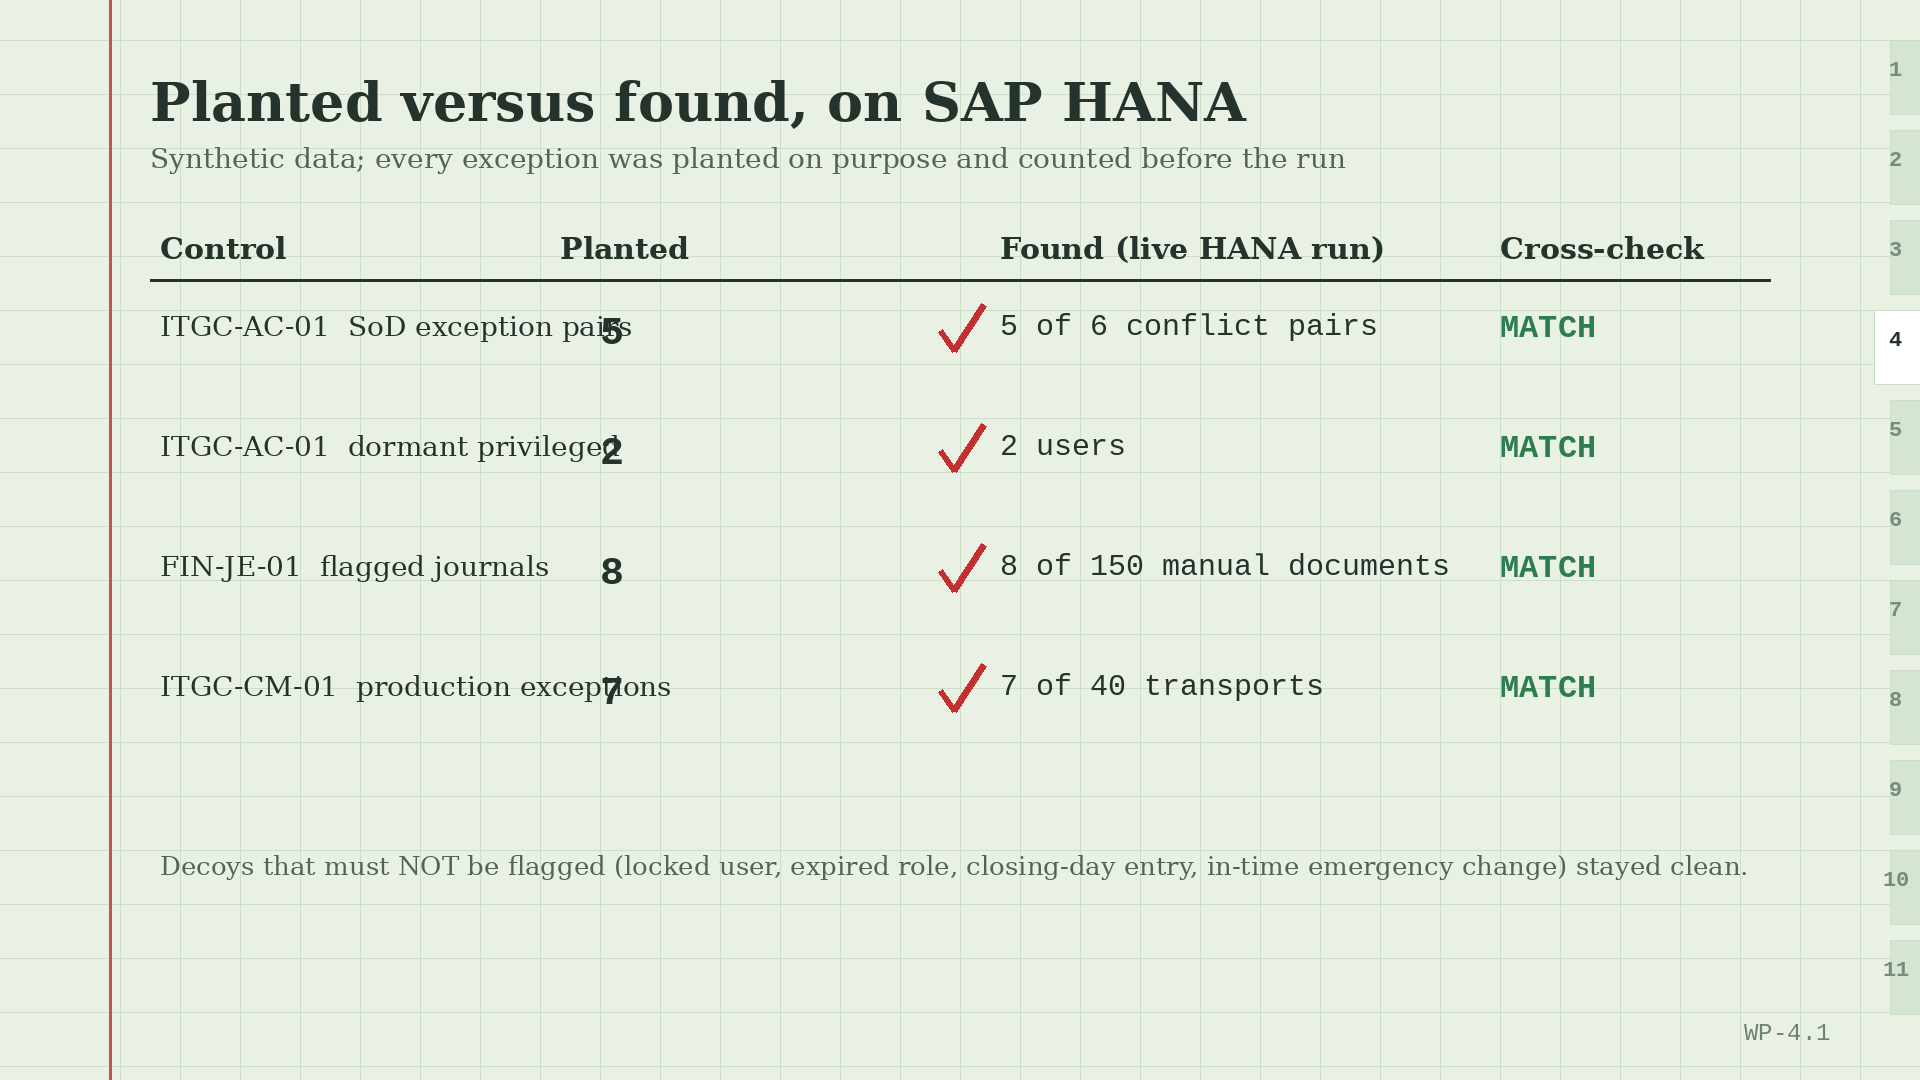
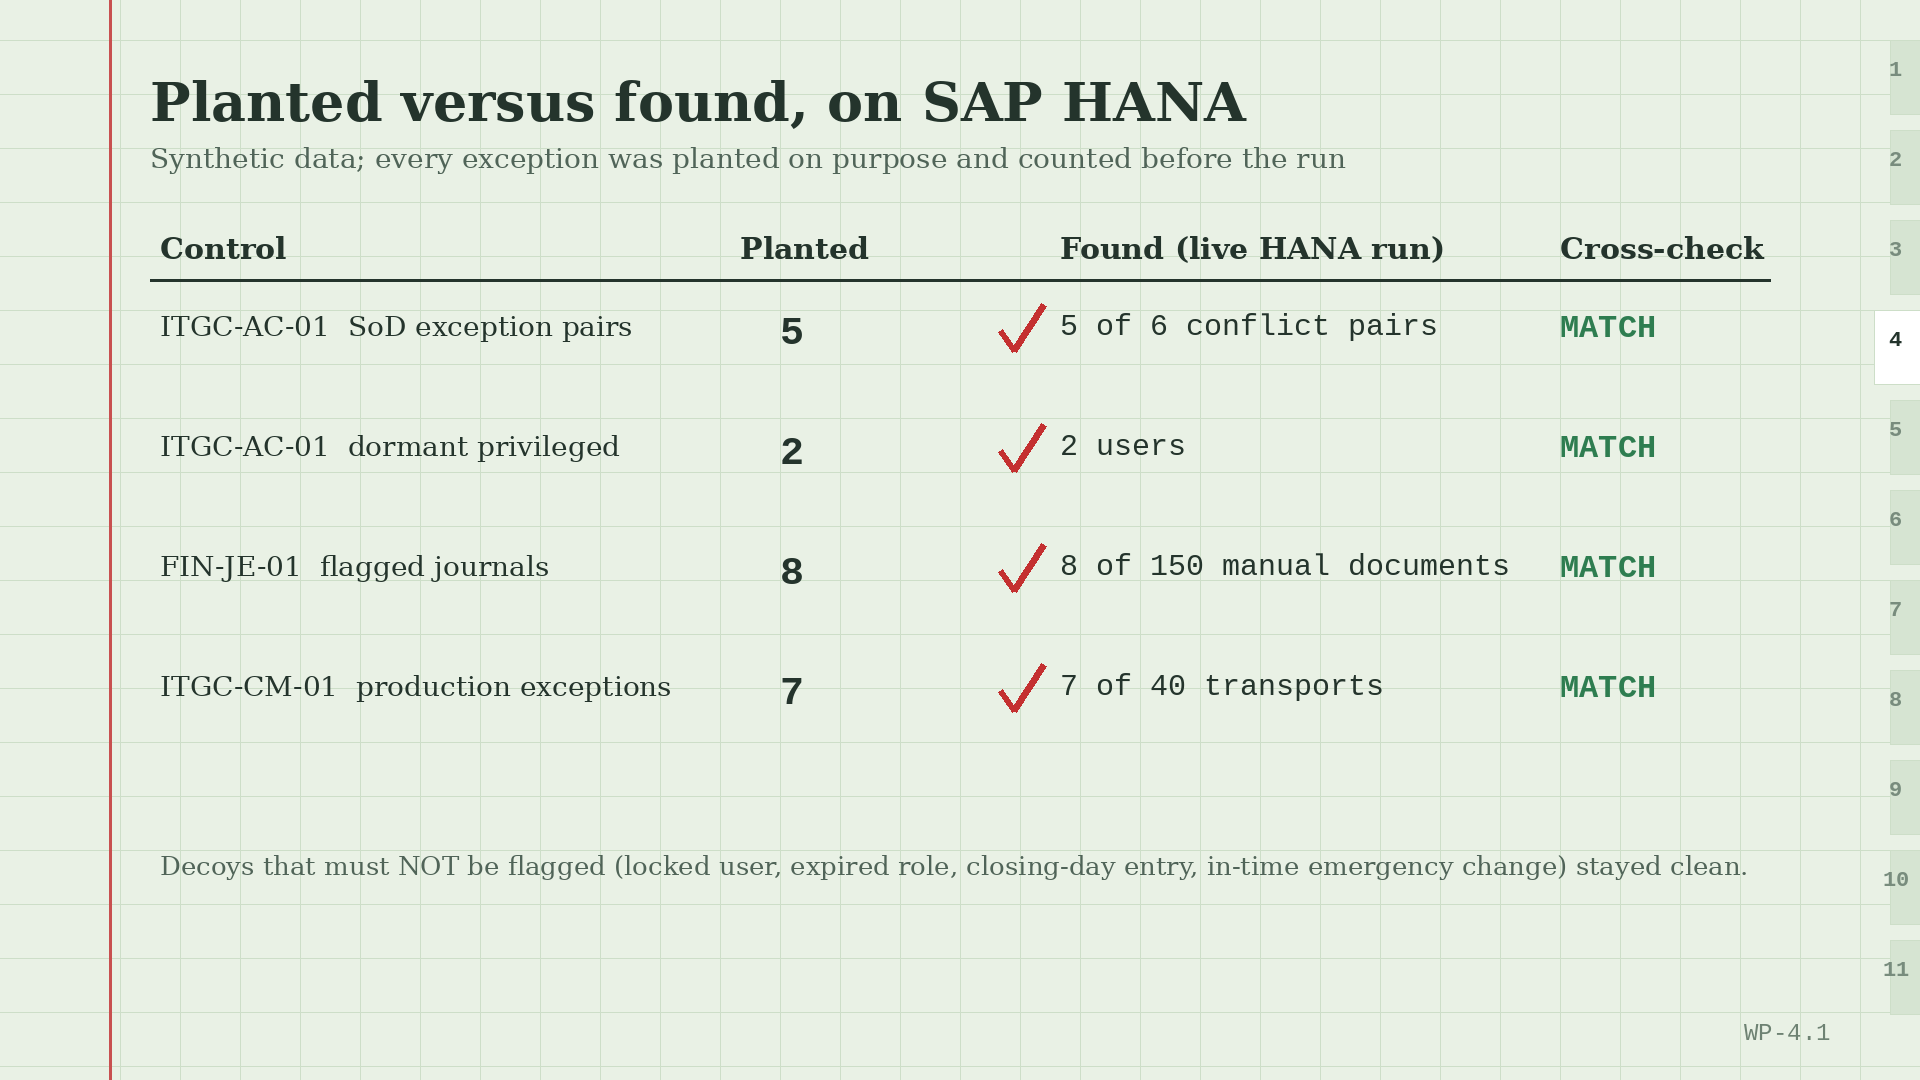
Add demo video renderer, fix planted-vs-found column overlap, polish LinkedIn post
Claude-Session: https://claude.ai/code/session_01YEmykuhzaUhmFByyCdGGtt

diff --git a/demo/render_video.py b/demo/render_video.py
@@ -1,0 +1,188 @@
+#!/usr/bin/env python3
+"""Renders sox-demo.mp4 (1920x1080, H.264 + AAC) in the audit-workpaper-tickmark-binder look from demo/ only:
+storyboard content.py, images in screens/, narration in audio/*.wav (+ durations.json).
+Usage: python3 demo/render_video.py [outdir]     (needs ffmpeg, Pillow, numpy)
+Caption timing inside a scene is estimated from character counts (no forced alignment); scene lengths come from the real audio."""
+import importlib.util, json, os, subprocess, sys, wave
+from multiprocessing import Pool
+import numpy as np
+from PIL import Image, ImageDraw, ImageFont
+
+HERE = os.path.dirname(os.path.abspath(__file__))
+SCREENS, AUDIO = os.path.join(HERE, 'screens'), os.path.join(HERE, 'audio')
+OUT = os.path.abspath(sys.argv[1]) if len(sys.argv) > 1 else os.path.join(HERE, 'out')
+WORK = os.path.join(OUT, 'work'); os.makedirs(WORK, exist_ok=True)
+spec = importlib.util.spec_from_file_location('content', os.path.join(HERE, 'content.py')); content = importlib.util.module_from_spec(spec); spec.loader.exec_module(content)
+SCENES = content.SCENES; DUR = json.load(open(os.path.join(AUDIO, 'durations.json')))
+
+W, H, FPS = 1920, 1080, 24
+LEAD, TAIL, FLIP, XFADE = 0.5, 0.1, 0.5, 0.25
+SERIF = '/usr/share/fonts/truetype/dejavu/DejaVuSerif.ttf'; SERIFB = '/usr/share/fonts/truetype/dejavu/DejaVuSerif-Bold.ttf'
+MONO = '/usr/share/fonts/truetype/liberation/LiberationMono-Regular.ttf'; MONOB = '/usr/share/fonts/truetype/liberation/LiberationMono-Bold.ttf'
+F = lambda p, s: ImageFont.truetype(p, s)
+PAPER, GRID, MARGIN, INK, PENCIL, GREEN = (233, 241, 229), (205, 222, 200), (200, 80, 80), (36, 52, 44), (196, 48, 48), (46, 125, 80)
+RX0, RY0, RX1, RY1 = 150, 40, 1800, 850          # content region; note band below it, caption box under that
+FULL = {'title_card', 'workflow_today_vs_governed', 'phases_timeline', 'controls_table', 'planted_vs_found', 'guardrails_diagram',
+        'architecture_diagram', 'bugs_found_table', 'signoff_block_founder'}   # pre-rendered workpaper pages (1920x1080)
+CHAT = (200, 0, 1030, 618)                       # crop of the 1236x618 browser captures: the chat column only, no scrollbar
+SPEC = {   # crop = source box; focus = fixed point of the slow push (fraction of crop); z = push; ticks/underlines in source pixels
+ 'chat_01_controls': dict(crop=CHAT, focus=(.2, .35), z=.12),
+ 'chat_02_ac01_top': dict(crop=CHAT, focus=(.2, .6), z=.12, ticks=[(442, 384), (410, 449), (493, 516)]),
+ 'chat_03_ac01_exceptions': dict(crop=CHAT, focus=(.4, .75), z=.15, ticks=[(735, 446)]),
+ 'chat_04_je01': dict(crop=CHAT, focus=(.35, .75), z=.15, ticks=[(648, 444), (452, 298)]),
+ 'chat_05_cm01': dict(crop=CHAT, focus=(.4, .75), z=.15, ticks=[(652, 445)],
+                      note='Note: the prose lists 5 of the 7 transports; the facts block under the answer is authoritative.'),
+ 'chat_06_refusal': dict(crop=CHAT, focus=(.4, .8), z=.15, under=[(252, 625, 468)]),
+ 'evidence_pdf_p1': dict(crop=(60, 70, 1060, 770), focus=(.5, .5), z=.08, ticks=[(650, 270), (908, 389), (982, 547)]),
+}
+DEFAULT_Z = .08
+
+def ease(x): x = min(1, max(0, x)); return x * x * (3 - 2 * x)
+
+# ---------- paper, tabs ----------
+_base = {}
+def base(tab):
+    if tab in _base: return _base[tab]
+    im = Image.new('RGB', (W, H), PAPER); d = ImageDraw.Draw(im)
+    for x in range(120, W, 60): d.line([(x, 0), (x, H)], fill=GRID, width=1)
+    for y in range(40, H, 54): d.line([(0, y), (W, y)], fill=GRID, width=1)
+    d.line([(110, 0), (110, H)], fill=MARGIN, width=3)
+    for i in range(1, 12):
+        y = 40 + (i - 1) * 90; on = (tab == i)
+        d.rectangle([W - (46 if on else 30), y, W, y + 74], fill=(255, 255, 255) if on else (214, 228, 210), outline=GRID)
+        d.text((W - 24, y + 22), f'{i}', font=F(MONOB, 22), fill=INK if on else (120, 140, 125), anchor='mt')
+    _base[tab] = im; return im
+
+# ---------- shots ----------
+_src, _plate = {}, {}
+def geom(name):
+    if name in _src: return _src[name]
+    im = Image.open(os.path.join(SCREENS, name + ('.png' if os.path.exists(os.path.join(SCREENS, name + '.png')) else '.jpg'))).convert('RGB')
+    sp = dict(SPEC.get(name, {}))
+    if name in FULL:   # drop margin line + tab column (we draw our own), keep the page down to its last ink
+        a = np.asarray(im).astype(int); dark = (a[:, 125:1700].sum(2) < 450).sum(1); last = int(np.nonzero(dark)[0].max())
+        sp.setdefault('crop', (115, 0, 1862, min(H, last + 40))); sp.setdefault('z', .05); cap = 1.0
+    else:
+        sp.setdefault('crop', (0, 0, im.width, im.height)); sp.setdefault('z', DEFAULT_Z); cap = 1.5
+    sp.setdefault('focus', (.5, .5))
+    cx0, cy0, cx1, cy1 = sp['crop']; cw, ch = cx1 - cx0, cy1 - cy0
+    s0 = min((RX1 - RX0) / cw, (RY1 - RY0) / ch, cap); pw, ph = round(cw * s0), round(ch * s0)
+    px, py = RX0 + (RX1 - RX0 - pw) // 2, RY0 + (RY1 - RY0 - ph) // 2
+    _src[name] = (im, sp, pw, ph, px, py); return _src[name]
+
+def plate(name, tab):
+    k = (name, tab)
+    if k not in _plate:
+        im, sp, pw, ph, px, py = geom(name); p = base(tab).copy(); d = ImageDraw.Draw(p)
+        d.rectangle([px + 9, py + 9, px + pw + 9, py + ph + 9], fill=(176, 196, 174))
+        d.rectangle([px - 3, py - 3, px + pw + 2, py + ph + 2], fill=(255, 255, 255), outline=INK, width=3)
+        _plate[k] = p
+    return _plate[k]
+
+def tick(d, x, y, k, p):   # red-pencil tick, drawn progressively; p in 0..1
+    pts = [(x, y), (x + 14 * k, y + 20 * k), (x + 44 * k, y - 26 * k)]; l1 = 24.4 * k; l2 = 52.5 * k; cur = p * (l1 + l2); w = max(4, round(5.5 * k))
+    if cur <= l1: f = cur / l1; d.line([pts[0], (pts[0][0] + (pts[1][0] - pts[0][0]) * f, pts[0][1] + (pts[1][1] - pts[0][1]) * f)], fill=PENCIL, width=w)
+    else:
+        f = (cur - l1) / l2; d.line([pts[0], pts[1]], fill=PENCIL, width=w)
+        d.line([pts[1], (pts[1][0] + (pts[2][0] - pts[1][0]) * f, pts[1][1] + (pts[2][1] - pts[1][1]) * f)], fill=PENCIL, width=w)
+
+def shot_frame(name, tab, ts, dur):
+    im, sp, pw, ph, px, py = geom(name); cx0, cy0, cx1, cy1 = sp['crop']; cw, ch = cx1 - cx0, cy1 - cy0
+    z = 1 + sp['z'] * ease(ts / max(dur, .01)); bw, bh = cw / z, ch / z; fx, fy = sp['focus']
+    bx, by = cx0 + fx * (cw - bw), cy0 + fy * (ch - bh)
+    out = plate(name, tab).copy(); out.paste(im.resize((pw, ph), Image.LANCZOS, box=(bx, by, bx + bw, by + bh)), (px, py)); d = ImageDraw.Draw(out)
+    sx = pw / bw; k = max(.8, sx / 1.35)
+    m = lambda x, y: (px + (x - bx) * sx, py + (y - by) * sx)
+    for j, (x, y) in enumerate(sp.get('ticks', [])):
+        p = (ts - (1.0 + .9 * j)) / .3
+        if p > 0:
+            X, Y = m(x, y)
+            if px < X < px + pw - 60 and py < Y < py + ph: tick(d, X, Y + 10 * (1 - min(1, p)) * -1, k, min(1, p))
+    for j, (x0, x1, y) in enumerate(sp.get('under', [])):
+        p = (ts - (1.0 + .9 * j)) / .5
+        if p > 0:
+            (X0, Y), (X1, _) = m(x0, y), m(x1, y); d.line([(X0, Y), (X0 + (X1 - X0) * min(1, p), Y + 3)], fill=PENCIL, width=max(4, round(4 * k)))
+    if sp.get('note'):
+        f = F(SERIF, 24); tw = d.textlength(sp['note'], font=f)
+        d.rounded_rectangle([RX0, 858, RX0 + tw + 40, 896], 6, fill=(255, 253, 242), outline=PENCIL, width=2); d.text((RX0 + 20, 877), sp['note'], font=f, fill=PENCIL, anchor='lm')
+    return out
+
+# ---------- captions ----------
+def wrap(d, text, font, width):
+    out, line = [], ''
+    for w in text.split(' '):
+        t = (line + ' ' + w).strip()
+        if d.textlength(t, font=font) <= width: line = t
+        else: out.append(line); line = w
+    return out + [line]
+_cap = {}
+def caption(sc, k):
+    key = (sc['id'], k)
+    if key in _cap: return _cap[key]
+    d0 = ImageDraw.Draw(Image.new('RGB', (10, 10))); f = F(SERIF, 30); lines = wrap(d0, sc['sentences'][k][0], f, 1466)
+    h = 24 + len(lines) * 38 + 18; im = Image.new('RGB', (1640, h), (255, 253, 242)); d = ImageDraw.Draw(im)
+    d.rectangle([0, 0, 1639, h - 1], outline=INK, width=2); d.rectangle([0, 0, 9, h], fill=PENCIL)
+    d.text((28, 22), f"{sc['ref']}.{k + 1}", font=F(MONOB, 24), fill=PENCIL)
+    for j, ln in enumerate(lines): d.text((150, 20 + j * 38), ln, font=f, fill=INK)
+    _cap[key] = im; return im
+
+# ---------- timeline ----------
+def timeline(i):
+    sc = SCENES[i]; dur = DUR[sc['id']]; total = dur + LEAD + TAIL
+    ch = [len(s[1]) for s in sc['sentences']]; cum = np.cumsum([0] + ch) / sum(ch) * dur + LEAD
+    ns, nsent = len(sc['shots']), len(sc['sentences'])
+    if ns <= nsent: bounds = [0.0] + [float(cum[round(k * nsent / ns)]) for k in range(1, ns)] + [total]
+    else: bounds = [total * k / ns for k in range(ns + 1)]
+    return sc, total, cum, bounds
+
+def scene_frame(i, t):
+    sc, total, cum, bounds = timeline(i); tab = int(sc['nav'].split('-')[1]); ns = len(sc['shots'])
+    def at(k, tt): return shot_frame(sc['shots'][k], tab, max(0, tt - bounds[k]), bounds[k + 1] - bounds[k])
+    k = max(0, min(ns - 1, int(np.searchsorted(bounds, t, side='right')) - 1)); im = None
+    if k + 1 < ns and t >= bounds[k + 1] - XFADE / 2: im = Image.blend(at(k, t), at(k + 1, t), (t - (bounds[k + 1] - XFADE / 2)) / XFADE)
+    elif k > 0 and t < bounds[k] + XFADE / 2: im = Image.blend(at(k - 1, t), at(k, t), (t - (bounds[k] - XFADE / 2)) / XFADE)
+    if im is None: im = at(k, t)
+    if LEAD <= t < total - TAIL:
+        s = min(len(cum) - 2, int(np.searchsorted(cum, t, side='right')) - 1); c = caption(sc, s)
+        im.paste(c, (150, 1050 - c.height))
+    return im
+
+_strip = None
+def flip(prev, cur, p):
+    global _strip
+    e = ease(p); w = int((W - 110) * (1 - e)); out = cur.copy()
+    if w < 3: return out
+    out.paste(prev.crop((110, 0, W, H)).resize((w, H), Image.BILINEAR), (110, 0)); d = ImageDraw.Draw(out)
+    x = 110 + w; d.line([(x, 0), (x, H)], fill=(90, 110, 95), width=3)
+    if _strip is None: _strip = Image.linear_gradient('L').rotate(270).resize((40, H)).point(lambda v: int(v * .28))   # dark at the fold, fading right
+    out.paste(Image.new('RGB', (40, H), (30, 45, 35)), (x + 2, 0), _strip)
+    return out
+
+def render_scene(i):
+    sc, total, cum, bounds = timeline(i); n = round(total * FPS); path = os.path.join(WORK, f'seg{i:02d}.mp4')
+    prev = scene_frame(i - 1, timeline(i - 1)[1] - 1 / FPS) if i > 0 else None
+    p = subprocess.Popen(['ffmpeg', '-y', '-loglevel', 'error', '-f', 'rawvideo', '-pix_fmt', 'rgb24', '-s', f'{W}x{H}', '-r', str(FPS), '-i', '-',
+                          '-c:v', 'libx264', '-preset', 'slow', '-crf', '20', '-pix_fmt', 'yuv420p', '-g', str(FPS * 2), '-an', path], stdin=subprocess.PIPE)
+    for f in range(n):
+        t = f / FPS; im = scene_frame(i, t)
+        if prev is not None and t < FLIP: im = flip(prev, im, t / FLIP)
+        p.stdin.write(im.tobytes())
+    p.stdin.close(); assert p.wait() == 0; return path, n
+
+def build_audio(path):
+    first = wave.open(os.path.join(AUDIO, SCENES[0]['id'] + '.wav')); params = first.getparams(); first.close(); sr, sw, nch = params.framerate, params.sampwidth, params.nchannels
+    out = wave.open(path, 'wb'); out.setparams(params)
+    for i, sc in enumerate(SCENES):
+        w = wave.open(os.path.join(AUDIO, sc['id'] + '.wav')); assert w.getparams()[:3] == (nch, sw, sr), 'wav format differs'; data = w.readframes(w.getnframes()); w.close()
+        frames = round(timeline(i)[1] * FPS) / FPS; need = round(frames * sr); lead = round(LEAD * sr)
+        out.writeframes(b'\0' * (lead * sw * nch) + data + b'\0' * (max(0, need - lead - len(data) // (sw * nch)) * sw * nch))
+    out.close()
+
+if __name__ == '__main__':
+    with Pool(min(4, os.cpu_count() or 1)) as pool: segs = pool.map(render_scene, range(len(SCENES)))
+    lst = os.path.join(WORK, 'segs.txt'); open(lst, 'w').write(''.join(f"file '{p}'\n" for p, _ in segs))
+    wav = os.path.join(WORK, 'narration.wav'); build_audio(wav)
+    master = os.path.join(OUT, 'sox-demo.mp4')
+    subprocess.run(['ffmpeg', '-y', '-loglevel', 'error', '-f', 'concat', '-safe', '0', '-i', lst, '-i', wav, '-c:v', 'copy', '-c:a', 'aac', '-b:a', '128k',
+                    '-movflags', '+faststart', '-shortest', master], check=True)
+    print('wrote', master, sum(n for _, n in segs) / FPS, 's')

diff --git a/demo/make_assets.py b/demo/make_assets.py
@@ -98,7 +98,7 @@ save(im, 'controls_table')
 
 M = json.load(open(os.path.join(HERE, '..', 'seed', 'manifest.json')))
 im, d = paper('WP-4.1', 4); title(d, 'Planted versus found, on SAP HANA', 'Synthetic data; every exception was planted on purpose and counted before the run')
-hdr = ['Control', 'Planted', 'Found (live HANA run)', 'Cross-check']; xs = [160, 560, 1000, 1500]
+hdr = ['Control', 'Planted', 'Found (live HANA run)', 'Cross-check']; xs = [160, 740, 1060, 1560]
 for x, h in zip(xs, hdr): d.text((x, 230), h, font=F(SERIFB, 30), fill=INK)
 d.line([(150, 280), (1770, 280)], fill=INK, width=3)
 data = [('ITGC-AC-01  SoD exception pairs', str(M['ITGC-AC-01']['sodExceptionPairs']), '5 of 6 conflict pairs'), ('ITGC-AC-01  dormant privileged', str(len(M['ITGC-AC-01']['dormantPrivilegedUsers'])), '2 users'),
